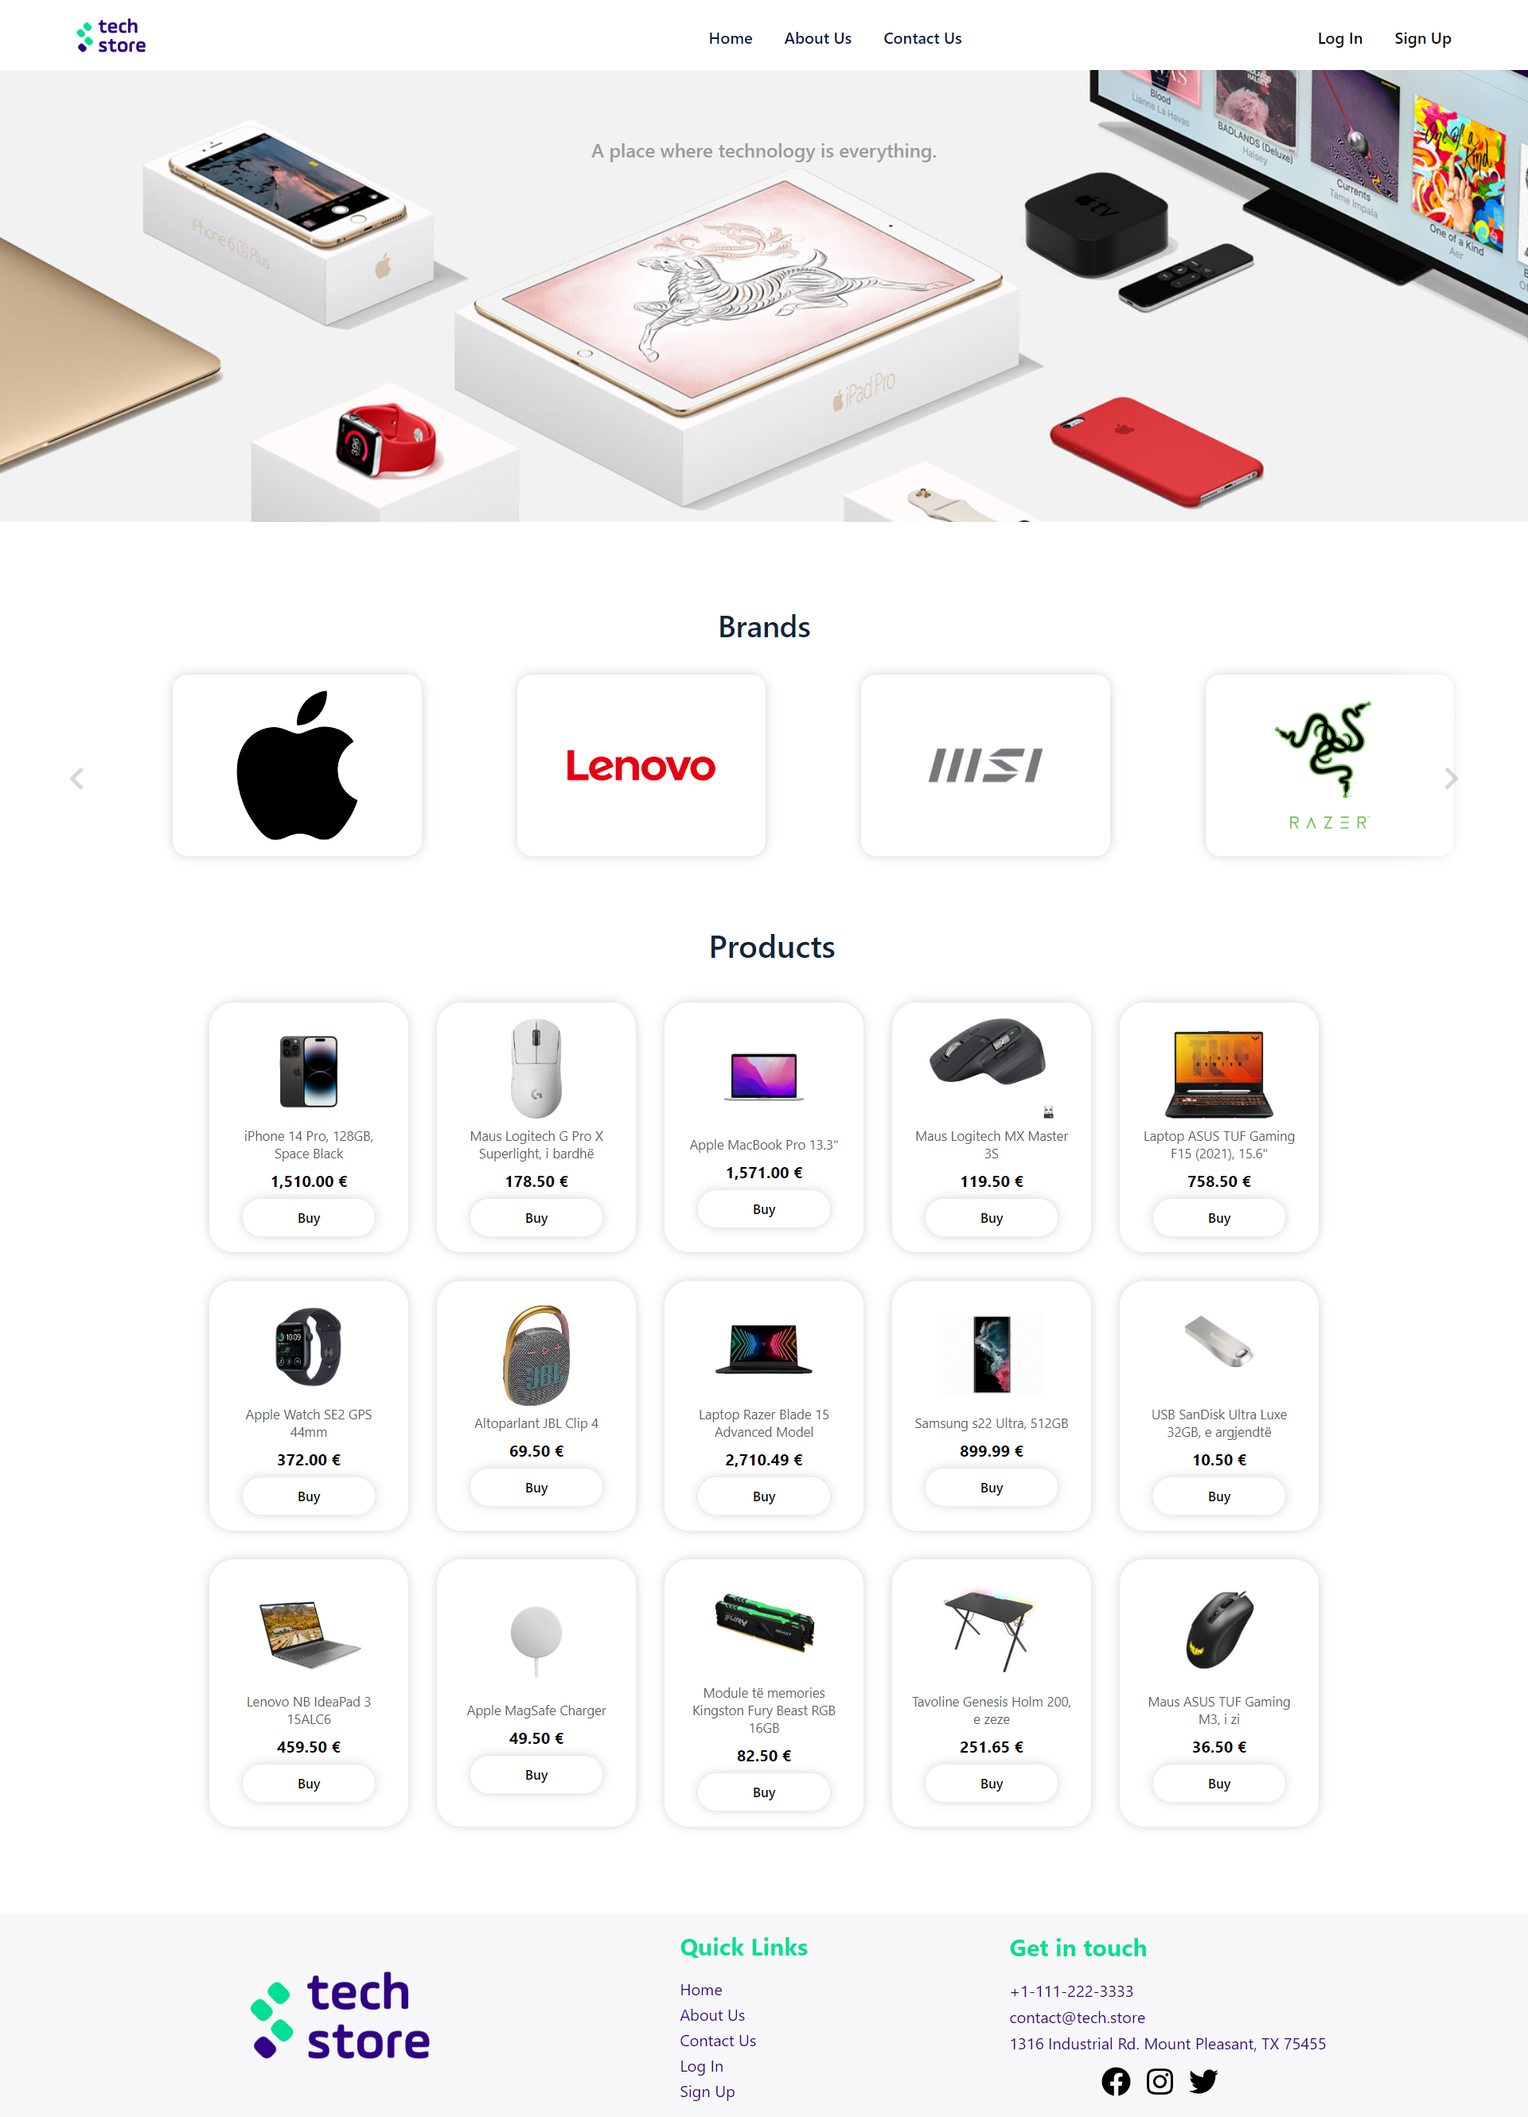
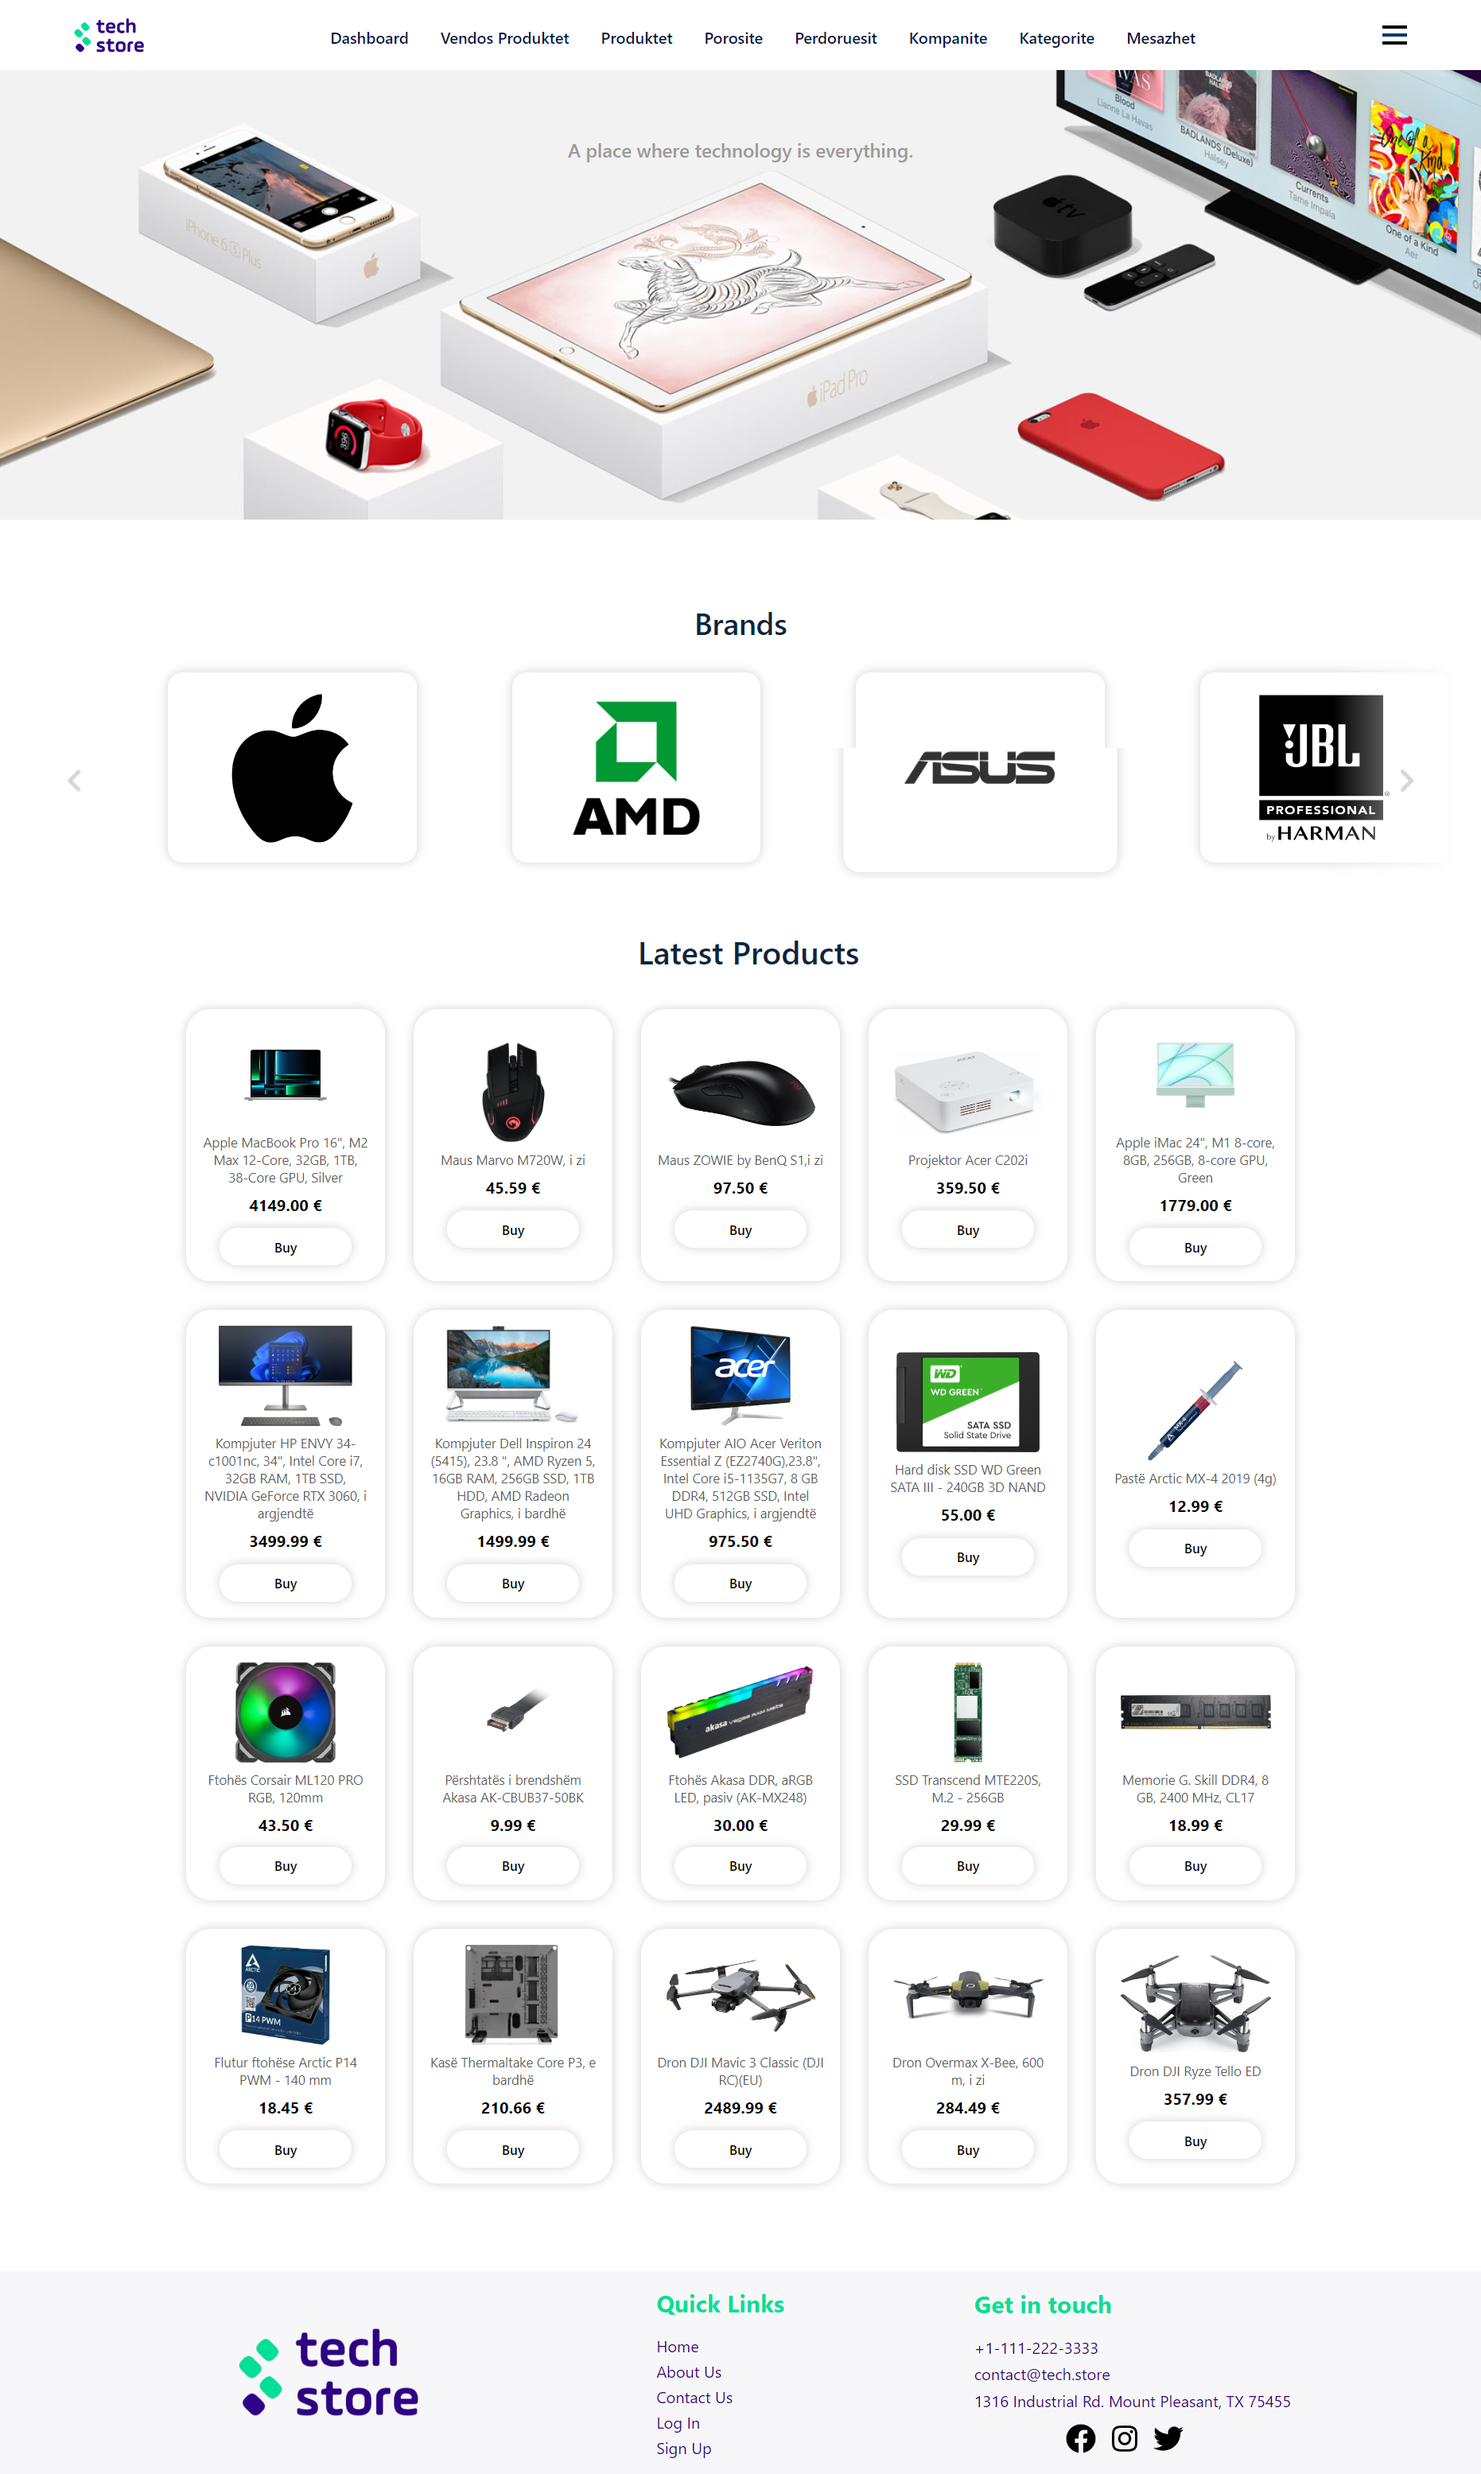
eshte perditesuar readme

diff --git a/README.md b/README.md
@@ -29,24 +29,32 @@ Eshte punuar nga:
  - **[Behance | Abbas - Techstore](https://www.behance.net/gallery/130956581/Tech-Store-Brand-identity)** - Logo e TechStore.
  - **[jsPDF - James Hall / Parallax](https://parall.ax/products/jspdf)** - A library to generate PDFs in JavaScript.
 
-## Pamja e TechStore
+## Disa nga shembujt e pamjes se TechStore
 
 ### Home
 
 ![Home | TechStore](img/READMEImg/home.png?raw=true)
 
-### About Us
+### Produktet - Klient
 
-![About Us | TechStore](img/READMEImg/aboutUs.png?raw=true)
+![About Us | TechStore](img/READMEImg/produktet.png?raw=true)
 
-### Contact Form
+### Forma e thjesht
 
-![Contact Us | TechStore](img/READMEImg/contactForm.png?raw=true)
+![Contact Us | TechStore](img/READMEImg/FormaEThjesht.png?raw=true)
 
-### Login
+### Forma me input te Fotove dhe Selektim
 
-![Login | TechStore](img/READMEImg/logIn.png?raw=true)
+![Contact Us | TechStore](img/READMEImg/FormaMeFoto.png?raw=true)
 
-### Sign Up
+### Fatura
 
-![Sign Up | TechStore](img/READMEImg/signUp.png?raw=true)
+![Login | TechStore](img/READMEImg/fatura.png?raw=true)
+
+### Faqet me tabela
+
+![Sign Up | TechStore](img/READMEImg/faqetMeTabela.png?raw=true)
+
+### Dashboard
+
+![Sign Up | TechStore](img/READMEImg/dashboard.png?raw=true)
